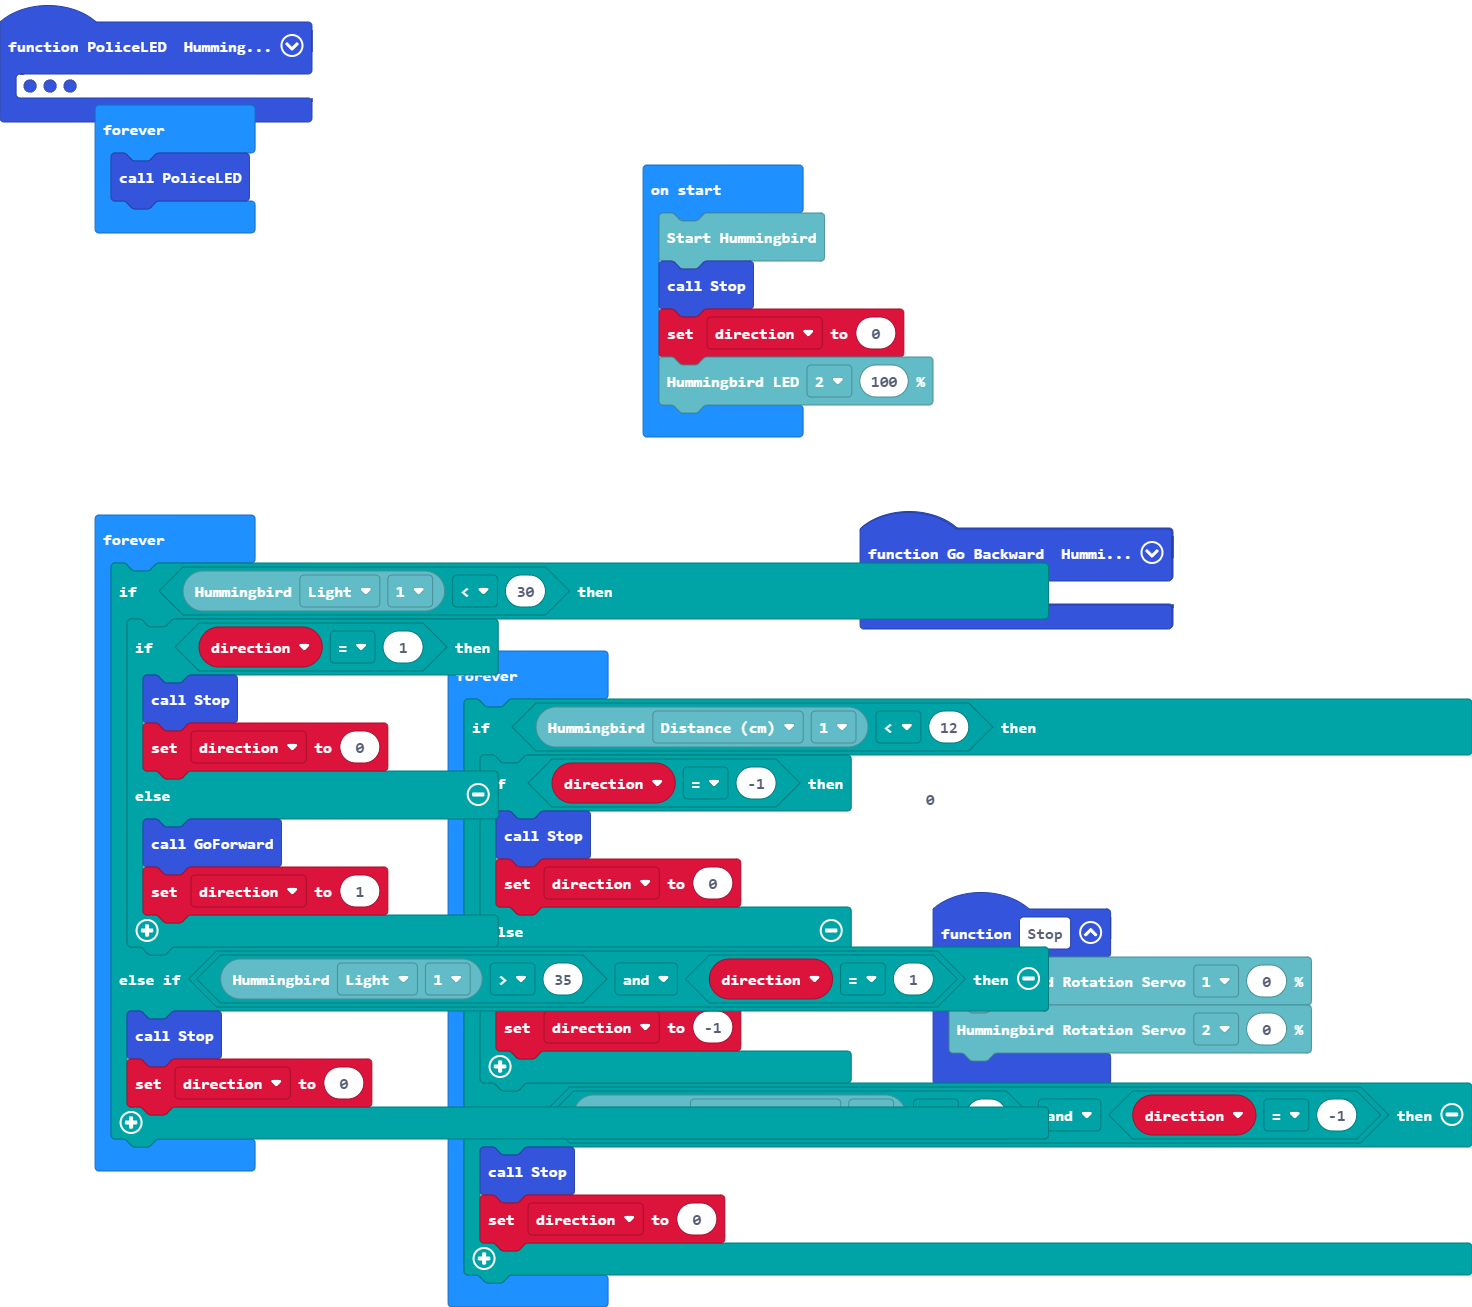
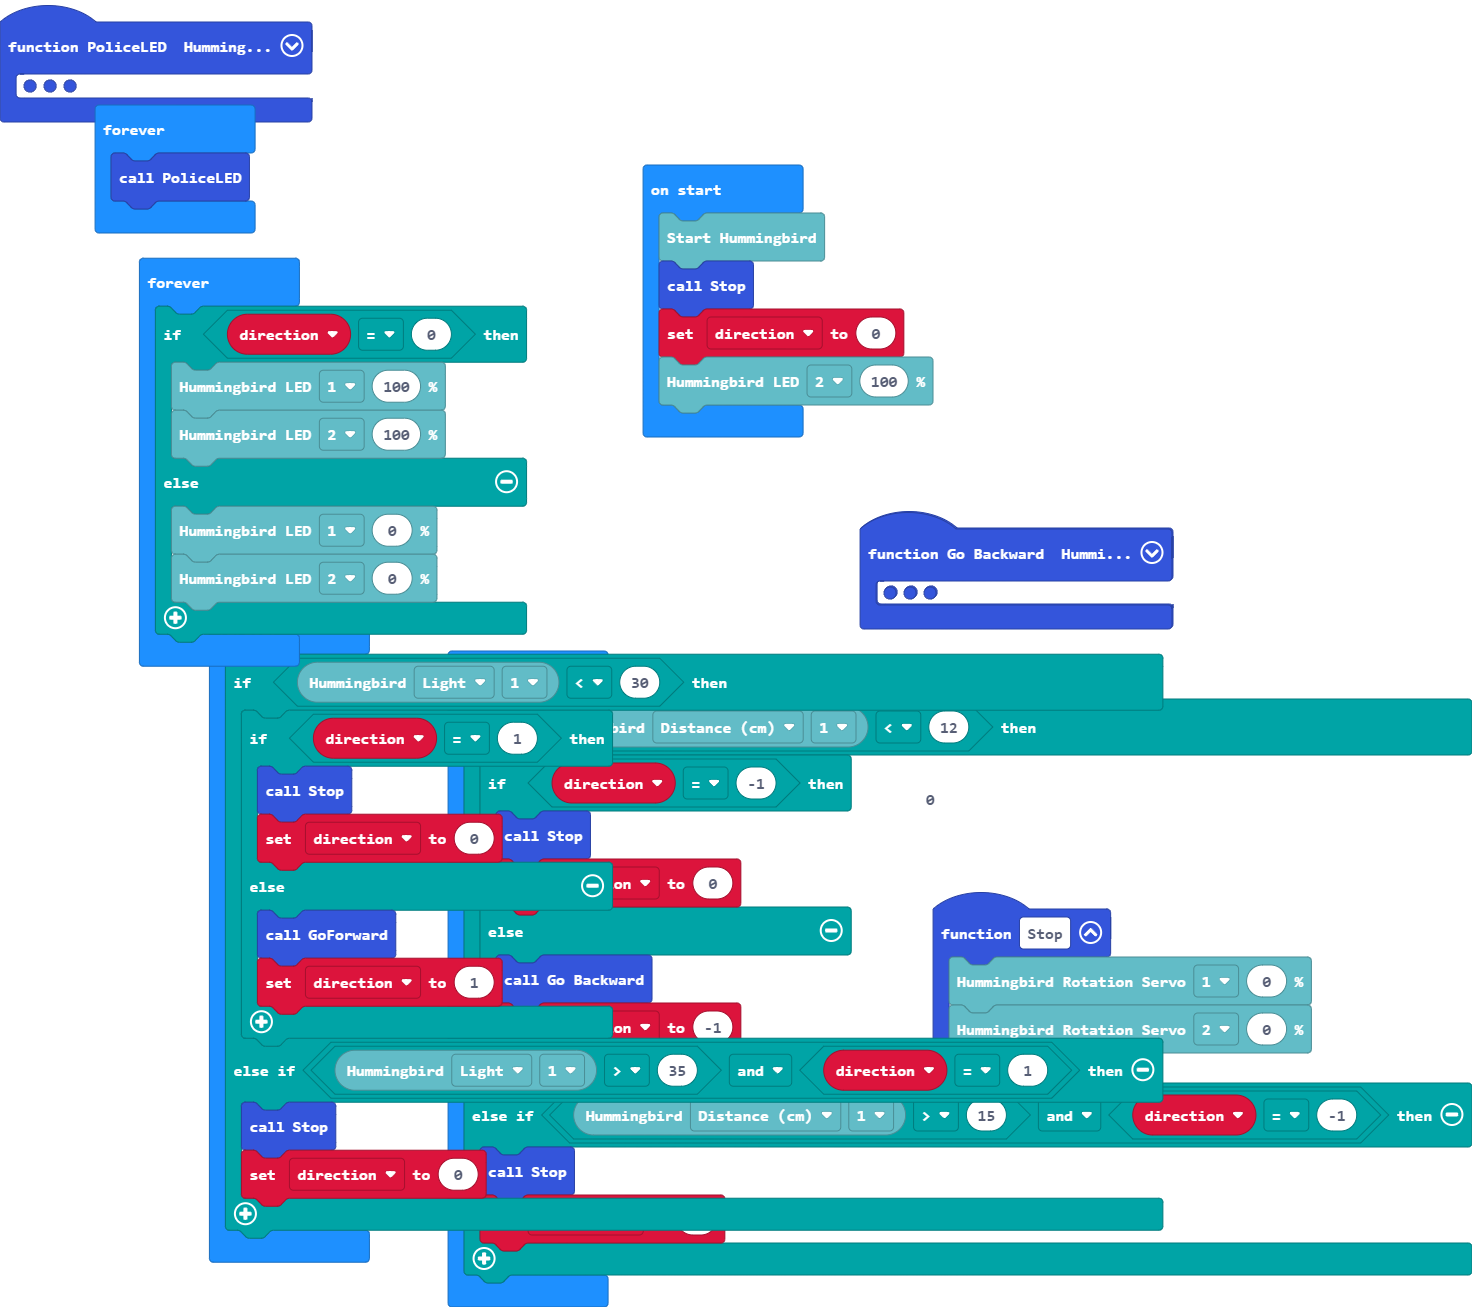
Finished LEDs

Changed region(s): [[0.0625, 0.1836, 0.8125, 0.9793]]

diff --git a/main.ts b/main.ts
@@ -34,6 +34,15 @@ basic.forever(function () {
     PoliceLED()
 })
 basic.forever(function () {
+    if (direction == 0) {
+        hummingbird.setLED(ThreePort.One, 100)
+        hummingbird.setLED(ThreePort.Two, 100)
+    } else {
+        hummingbird.setLED(ThreePort.One, 0)
+        hummingbird.setLED(ThreePort.Two, 0)
+    }
+})
+basic.forever(function () {
     if (hummingbird.getSensor(SensorType.Light, ThreePort.One) < 30) {
         if (direction == 1) {
             Stop()
